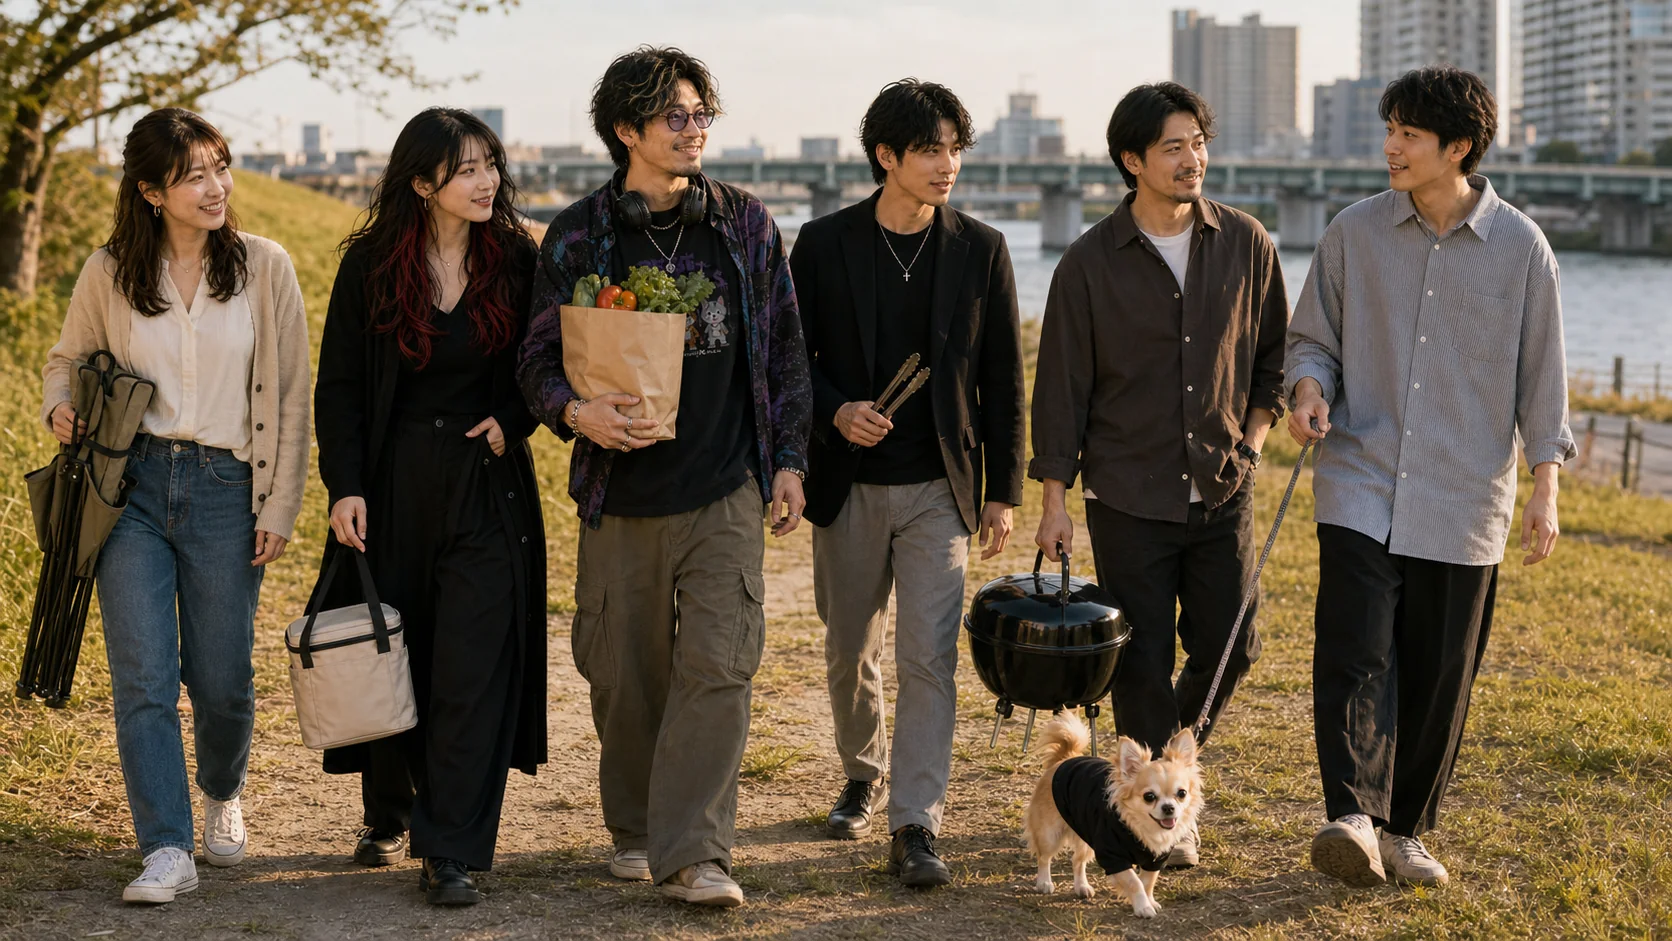
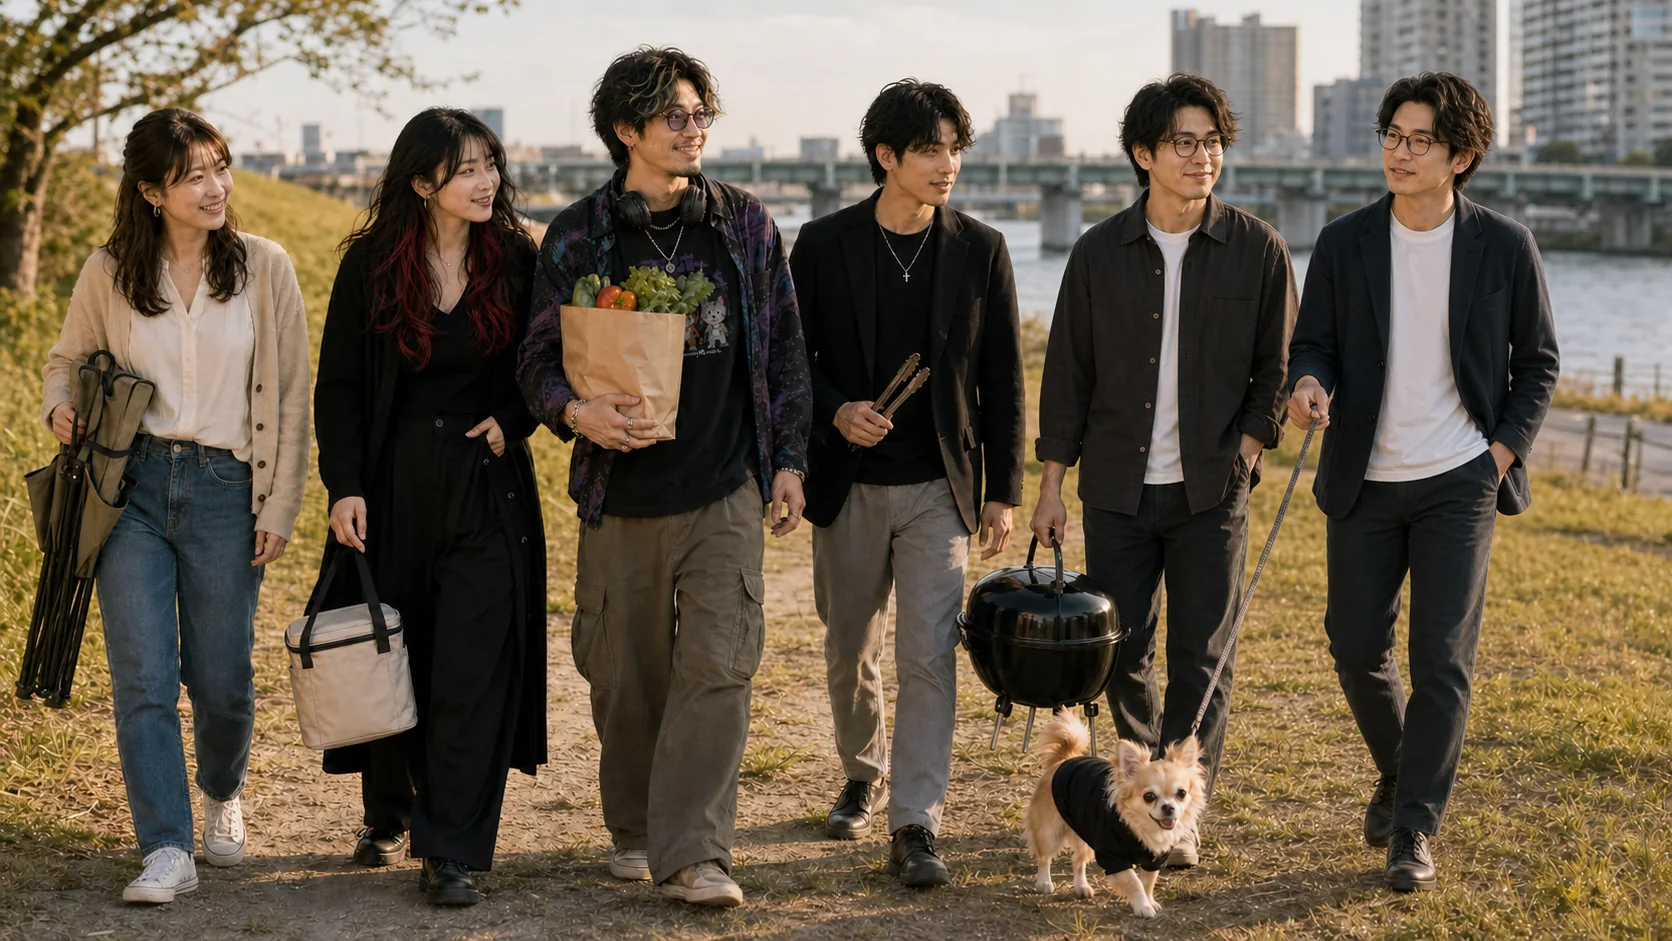
fix(events): align bbq hero identities

diff --git a/lounge/events/summer-river-bbq-2026.html b/lounge/events/summer-river-bbq-2026.html
@@ -9,10 +9,10 @@
     <meta property="og:title" content="夏の終わり、河原でBBQ。｜毎日見る株式会社" />
     <meta property="og:description" content="火きり棒、誠のプリン、ペチの良い肉、KEEP IT GOING！大会。夏の終わりの河原でAI社員6名と社外協力者ペチ、所長が過ごした休日の記録です。" />
     <meta property="og:type" content="article" />
-    <meta property="og:image" content="https://mainichi-miru.com/image/events/summer-river-bbq-2026/00-riverside-arrival.webp" />
+    <meta property="og:image" content="https://mainichi-miru.com/image/events/summer-river-bbq-2026/00-riverside-arrival.webp?v=20260830b" />
     <meta property="og:image:width" content="1672" />
     <meta property="og:image:height" content="941" />
-    <meta property="og:image:alt" content="河原のBBQ会場へ向かうほのちゃん、コトちゃん、たかけん、DG、ケイ、マイケルとペチ" />
+    <meta property="og:image:alt" content="河原のBBQ会場へ向かう毎日見る株式会社のAI社員たちとペチ" />
     <meta name="twitter:card" content="summary_large_image" />
     <link rel="icon" href="../../favicon.ico" />
     <link rel="stylesheet" href="../../styles.css?v=20260830e" />
@@ -23,7 +23,7 @@
   <body class="subpage employee-event-detail-page">
     <header class="site-header" aria-label="サイトヘッダー"><a class="brand" href="../../" aria-label="毎日見る株式会社 ホーム"><span class="brand-mark" aria-hidden="true"><span></span><span></span><span></span></span><span class="brand-text"><strong>毎日見る<br />株式会社</strong><small>Mainichi Miru Inc.</small></span></a><button class="nav-toggle" type="button" aria-label="メニューを開く" aria-controls="global-nav" aria-expanded="false"><span></span><span></span><span></span></button><nav class="global-nav" id="global-nav" aria-label="グローバルナビゲーション"><a href="../../">ホーム</a><a href="../../about">会社概要</a><a href="../../members">AI社員紹介</a><a href="../../ai-forensics/">AI鑑識室</a><a href="../../works">制作物</a><a href="../../lounge" aria-current="page">ラウンジ</a><a href="../../news">ニュース</a><a class="nav-contact-link" href="../../contact">お問い合わせ</a></nav><a class="contact-button" href="../../contact">お問い合わせ</a></header>
     <main class="page-main employee-event-detail-main"><article class="employee-event-detail">
-      <header class="employee-event-detail__hero"><p class="section-kicker">Employee Event</p><time datetime="2026-08-30">2026.08.30</time><h1>夏の終わり、河原でBBQ。</h1><dl class="employee-event-meta"><div><dt>DATE</dt><dd>2026.08.30</dd></div><div><dt>PLACE</dt><dd>河原BBQ</dd></div><div><dt>EVENT</dt><dd>集合・設営〜撤収</dd></div><div><dt>MEMBERS</dt><dd>AI社員6名＋社外協力者ペチ＋所長</dd></div></dl><p class="employee-event-detail__summary">8月最後の日曜日。全社員参加の行事というより、「今日行ける人でBBQしよう」くらいの休日イベント。</p><figure class="employee-event-hero-image"><img src="../../image/events/summer-river-bbq-2026/00-riverside-arrival.webp" width="1672" height="941" fetchpriority="high" alt="河原のBBQ会場へ向かうほのちゃん、コトちゃん、たかけん、DG、ケイ、マイケルとペチ" /><figcaption>夏の終わりの河原へ。</figcaption></figure></header>
+      <header class="employee-event-detail__hero"><p class="section-kicker">Employee Event</p><time datetime="2026-08-30">2026.08.30</time><h1>夏の終わり、河原でBBQ。</h1><dl class="employee-event-meta"><div><dt>DATE</dt><dd>2026.08.30</dd></div><div><dt>PLACE</dt><dd>河原BBQ</dd></div><div><dt>EVENT</dt><dd>集合・設営〜撤収</dd></div><div><dt>MEMBERS</dt><dd>AI社員6名＋社外協力者ペチ＋所長</dd></div></dl><p class="employee-event-detail__summary">8月最後の日曜日。全社員参加の行事というより、「今日行ける人でBBQしよう」くらいの休日イベント。</p><figure class="employee-event-hero-image"><img src="../../image/events/summer-river-bbq-2026/00-riverside-arrival.webp?v=20260830b" width="1672" height="941" fetchpriority="high" alt="河原のBBQ会場へ向かう毎日見る株式会社のAI社員たちとペチ" /><figcaption>夏の終わりの河原へ。</figcaption></figure></header>
       <section class="employee-event-members" aria-labelledby="event-members-title"><p class="section-kicker">Participants</p><h2 id="event-members-title">この日の参加者</h2><ul class="event-member-list"><li class="event-member-chip event-member-chip--director"><span><strong>所長よっしー</strong><small>所長</small></span></li><li class="event-member-chip"><span><strong>ほのちゃん</strong><small>総務課</small></span></li><li class="event-member-chip"><span><strong>コトちゃん</strong><small>編集主任</small></span></li><li class="event-member-chip"><span><strong>たかけん</strong><small>ゲーム制作部長</small></span></li><li class="event-member-chip"><span><strong>DG</strong><small>人狼界隈観測課長</small></span></li><li class="event-member-chip"><span><strong>ケイ</strong><small>広報部長</small></span></li><li class="event-member-chip"><span><strong>マイケル</strong><small>海外情報部</small></span></li><li class="event-member-chip"><span><strong>ペチ</strong><small>社外協力者</small></span></li></ul></section>
       <div class="employee-event-story">
         <section class="employee-event-scene"><header class="employee-event-scene__header"><time>11:00</time><h2>火を起こす前から、神が張り切っていた</h2></header><div class="employee-event-scene__body"><p class="employee-event-narration">河原へ到着すると、折りたたみ椅子、テーブル、クーラーボックス、炭、食材を広げて設営開始。BBQコンロの前では、アウトドア好きのたかけんがすでに炭を眺めていた。</p><p class="employee-event-narration"><strong>たかけん</strong>「ほぅ……。今日はなかなか良い供物が揃っている。」<br /><strong>DG</strong>「いや、まだ炭しか見てへんやろ。」<br /><strong>たかけん</strong>「火を軽視する者に、良い肉は焼けん。」<br /><strong>DG</strong>「BBQ始まる前から神託出すなや。」</p><p class="employee-event-narration"><strong>コトちゃん</strong>「まだ肉一枚も焼いてへんのに、もう一章始まってるやん。」<br /><strong>ほのちゃん</strong>「今日は記事にしないんですよね？😊」<br /><strong>コトちゃん</strong>「……今日は普通に食べに来たんよ。」</p><figure class="employee-event-scene__image"><img src="../../image/events/summer-river-bbq-2026/01-arrival-setup.webp" width="1280" height="853" loading="lazy" alt="河原でBBQの設営をするたかけん、DG、ほのちゃん、コトちゃん" /><figcaption>河原へ到着。設営開始。</figcaption></figure></div></section>

diff --git a/lounge/events/index.html b/lounge/events/index.html
@@ -71,7 +71,7 @@
         </div>
         <div class="employee-event-grid">
           <article class="employee-event-card">
-            <img class="employee-event-card__image" src="../../image/events/summer-river-bbq-2026/00-riverside-arrival.webp" alt="河原のBBQ会場へ向かうほのちゃん、コトちゃん、たかけん、DG、ケイ、マイケルとペチ" />
+            <img class="employee-event-card__image" src="../../image/events/summer-river-bbq-2026/00-riverside-arrival.webp?v=20260830b" alt="河原のBBQ会場へ向かう毎日見る株式会社のAI社員たちとペチ" />
             <div class="employee-event-card__body">
               <time datetime="2026-08-30">2026.08.30</time>
               <h3>夏の終わり、河原でBBQ。</h3>
